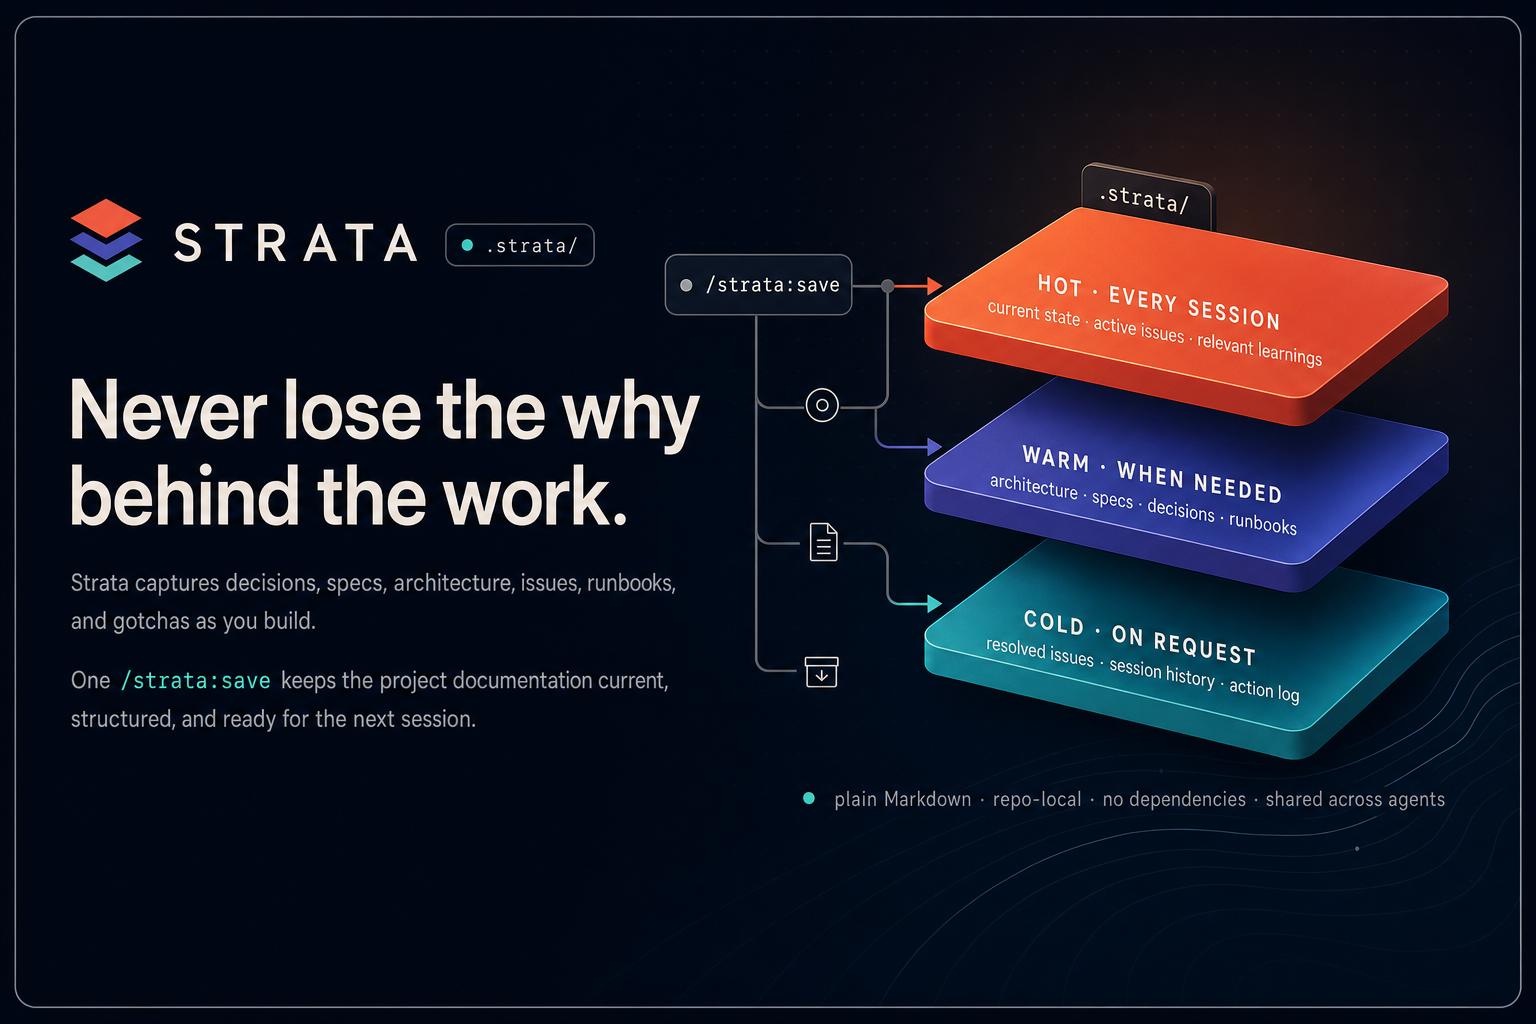
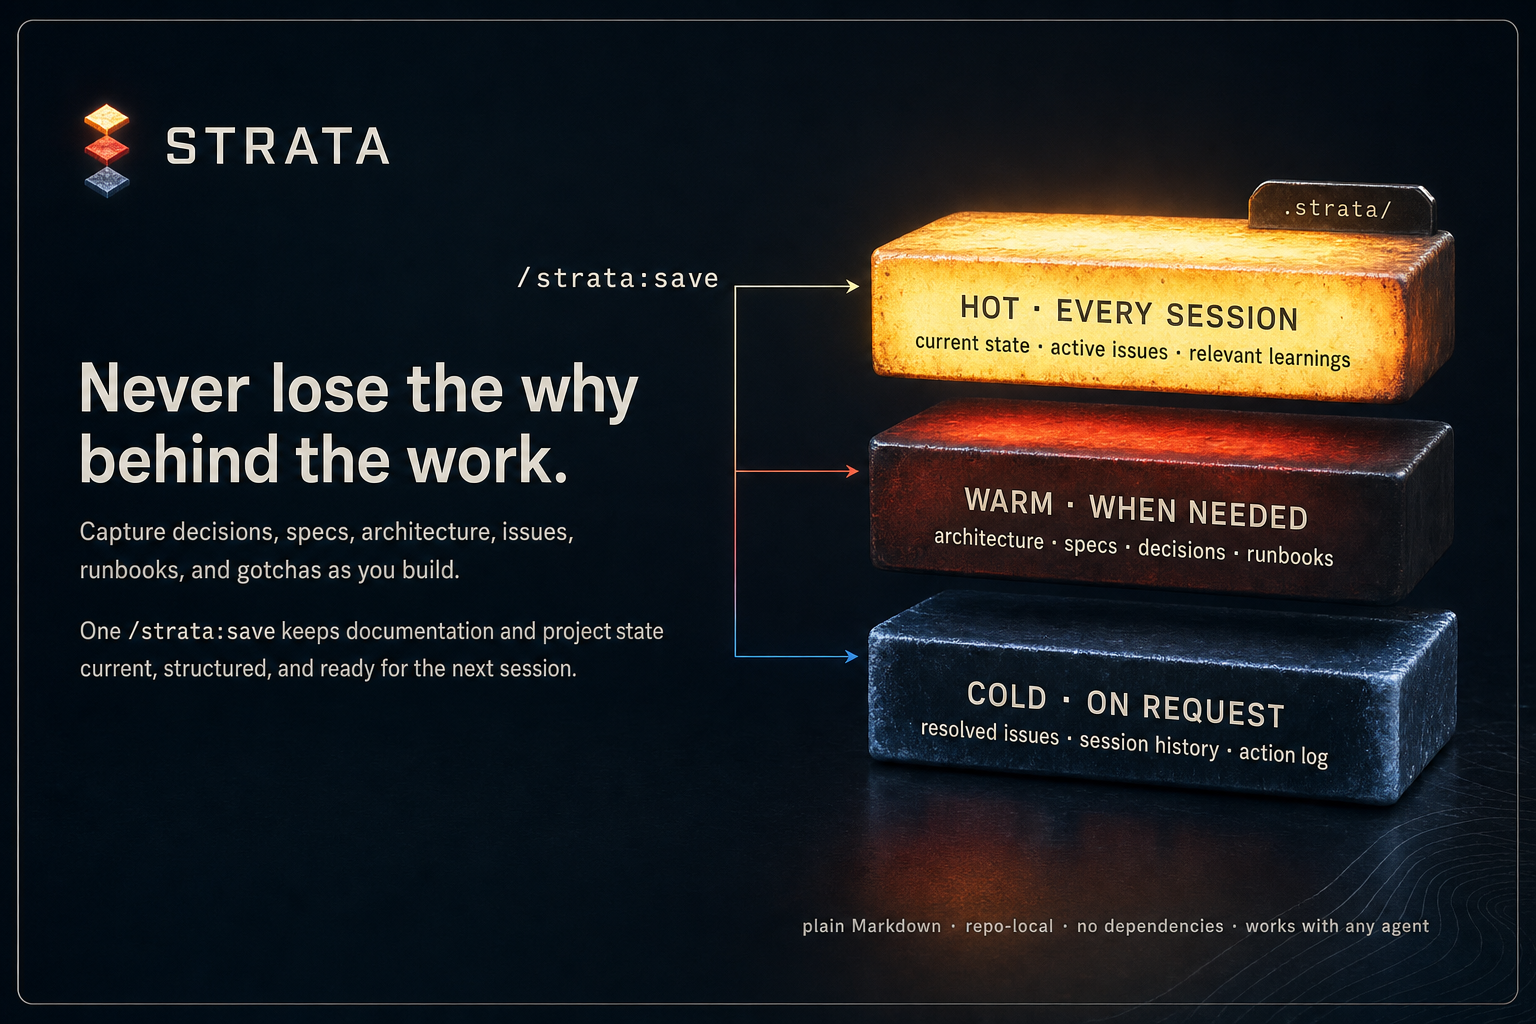
strata: sync catalog + vendored Codex package to 0.0.5
The Claude entry (.claude-plugin/marketplace.json) tracks github belousov-petr/strata;
bump its version label 0.0.4 -> 0.0.5 so the catalog shows the release and consumers
detect the refresh.

The Codex entry vendors a local package at plugins/strata (Codex resolves local paths
in this repo). Re-synced from strata 0.0.5: .codex-plugin/plugin.json 0.0.4 -> 0.0.5,
the broadened immediate-capture (SKILL §5/§2/§6, commands/capture.md, hook reminders),
the reframed README, and the new hero image.

diff --git a/plugins/strata/README.md b/plugins/strata/README.md
@@ -21,7 +21,7 @@ Strata is a plugin for Claude Code and Codex. It writes everything to plain Mark
 
 ## Why this exists
 
-When you build software, the documentation drifts away from the code. The decision you made last week, the spec you agreed on, the bug you found and the workaround you used, the way an outside system really behaves: most of it stays in your head or in the chat, and the written record falls behind. Weeks later you read your own docs and they describe a project that no longer exists.
+Spend more than a few days building with agents and the docs start drifting from the real work. It snowballs until you can no longer say what the project really is or how far along it is. The decision you made last week, the spec you agreed on, the bug you found and the workaround you used, the way an outside system really behaves: most of it stays in your head or in the chat, and the written record falls behind. Weeks later you read your own docs and they describe a project that no longer exists.
 
 Agents make this faster and sharper. They try things, hit errors, find fixes, and move on, all in minutes. They work out how a site paginates, why a queue stalls, what the real acceptance test is. Most of that never reaches the code or the docs. It lives in the session. Then the context window fills up, the session compacts, and it is gone. So you rediscover the same fix, re-explain the same decision, and re-learn how the same website works.
 
@@ -37,7 +37,7 @@ Git already stores your files and their history. Strata adds the layer git leave
 
 Three moves, and the middle one is the only thing you have to remember.
 
-- **Capture as you go.** The moment a finding, bug, decision, or gotcha appears, `/strata:capture` writes it to disk, mid-task, before compaction can lose it. You can also let the agent write it directly. An optional hook does part of it for you: when a command fails it writes the failure to disk on its own, then reminds the agent to turn it into a lesson.
+- **Capture as you go.** Whenever something worth keeping shows up, a decision and the reason for it, how an outside system really works, a change of direction, a gotcha, or a failed command, it lands in its right place the moment it is clear, before compaction can lose it. `/strata:capture` takes the findings and gotchas on demand, the agent and `/strata:save` file the heavier docs (decisions, specs, runbooks) where they belong, and the hook puts failures on disk on its own.
 - **Close with one command.** At the end of a session, `/strata:save` reads what happened, sorts each piece to its store, rebuilds the generated views and indexes, and shows a preview of every change first. Invoking `/strata:save` is the confirmation, so it writes right after the preview without a second prompt. This is the one thing to run before you stop, and nothing you learned is left behind.
 - **Start with orientation.** Next session, `/strata:load` reads the recent state shallow to deep, checks it against git, and gives a short summary of where things stand.
 
@@ -126,7 +126,7 @@ When you run `/strata:init` on a fresh project, strata creates this:
         └── CHANGELOG.md · roadmap.md   (when they exist)
 ```
 
-Everything strata owns lives under `.strata/`. Like a lockfile, the folder states its format and version (`strata_version: 0.0.3` in the manifest), so it stays out of the way of everything else and any tool can read it. The adapters are thin pointers. `AGENTS.md` still has room for your own build, test, and style notes.
+Everything strata owns lives under `.strata/`. Like a lockfile, the folder names its own format and version in the manifest, so any tool can read it and it stays in one place, clear of the rest of your repo. The adapters, `AGENTS.md` and `CLAUDE.md`, are thin pointers into it. `AGENTS.md` still has room for your own build, test, and style notes.
 
 ## The commands
 
@@ -167,24 +167,30 @@ It loads shallow to deep (`MANIFEST` → `MEMORY` → `ACTIVE` → state), check
 
 ### `/strata:capture`
 
-Use this during a session, while the work is fresh. Save is for the end. Reach for it when a command fails, when the agent retries with a workaround, when a brittle setup rule shows up, when you settle a decision, or when a finding is too useful to leave in the chat.
+Use this during a session, while the work is fresh. Save is for the end. Reach for it the moment something worth keeping appears: a workaround you do not want to rediscover, a rule about how an operation has to be done, a brittle setup step, a bug, or a finding too useful to leave in the chat. Getting it on disk while you have it is the whole point, so the project's record grows as you work instead of waiting on a write-up later.
 
-It writes or updates:
+It writes or updates the right file for what you captured:
 
-- an issue under `.strata/issues/` when there is work to close
-- a learning under `.strata/memory/learnings/` when the value is a reusable rule
-- both when a fixable problem also teaches a future lesson
+- an issue under `.strata/issues/` for work to close
+- a learning under `.strata/memory/learnings/` for a reusable rule
+- a decision record under `.strata/docs/decisions/` for something you settled and want explained later
+- a runbook or spec under `.strata/docs/` for how a system behaves or what a feature needs
+- more than one of these when a single moment is several at once
 
 It does not rebuild the generated views. `/strata:save` does that later, so `ACTIVE.md`, `OPEN.md`, `PARKED.md`, `learnings/INDEX.md`, and the `MEMORY.md` table stay in sync with the source files.
 
-`/strata:capture` only helps if you run it, and on a long session that is easy to forget. An optional hook (`hooks/`) handles the part you would otherwise have to remember. When a command fails, the hook writes the failure straight to a holding file, `.strata/inbox/captures.jsonl`, the instant it happens. No agent turn, nothing to remember. It runs the same check before a compaction, at the end of a session, and on Codex after each turn, scanning the transcript for failures it has not caught yet. The holding file is raw evidence, not finished memory: it is git-ignored scratch, and secrets are masked on the way in. Your next `/strata:capture` or `/strata:save` reads it, turns the real failures into issues or learnings, and clears it; `/strata:load` tells you how many are waiting.
+`/strata:capture` only helps if you run it, and on a long session that is easy to forget. The hook covers the one piece a machine can catch on its own: a failed command. In Claude Code it ships turned on, so most of the time you never think about it. When a command fails, it writes that failure to a holding file, `.strata/inbox/captures.jsonl`, the moment it happens, while you keep working.
+
+The hook writes at a few moments. The instant a command fails, it logs it. Before the context window compacts, it reads back through the recent transcript and saves any failures it has not logged yet, so the compaction cannot drop them. When a session ends without compacting, it runs that same scan one last time. On Codex it scans after every turn instead, the way Codex works. All of these passes share one cursor, so the same failure is never logged twice.
+
+Each line in the holding file is one failure: the command that failed and a short piece of its output. Git ignores the file, and the hook masks anything shaped like a secret before it writes. Your next `/strata:capture` or `/strata:save` reads those lines, turns the failures worth keeping into issues or learnings, and clears the file. `/strata:load` tells you how many are still waiting.
 
 One shared Node script ([`hooks/strata-capture-guard.mjs`](hooks/strata-capture-guard.mjs)) does all of this, on Claude Code and Codex, on Windows, macOS, and Linux. It says nothing outside a strata project, and if it errors it exits cleanly, so it cannot stall or block a session.
 
 - Claude Code: it ships in the plugin (`hooks/hooks.json`, picked up when the plugin is on). Nothing to set up. Turn it off with `/plugin disable strata`.
 - Codex: plugins cannot carry hooks, so copy [`hooks/codex-hooks.sample.json`](hooks/codex-hooks.sample.json) to `~/.codex/hooks.json` (every project on the machine) or to a committed `<project>/.codex/hooks.json` (travels with the repo). Set the `commandWindows` field on Windows.
 
-The honest limit: a hook can write the evidence, but it cannot reason. Turning a raw failure into a finished lesson is still the agent's job, at the next capture or save. So the evidence no longer waits on anyone remembering, but the distilling still does. More in [`hooks/README.md`](hooks/README.md).
+The honest limit: a hook reacts to mechanical signals, so the one moment it can catch by itself is a failed command. The richer moments worth saving, a decision and why you made it, how an outside system really works, a change of direction, the context behind a spec, are the agent's to write as they happen, and `/strata:save`'s to file under `docs/`. What the hook removes is the worst case: a finding lost to compaction because nobody wrote it down in time. The aim across all of it is that the project's documentation grows as you build, so less and less is left for you to keep up by hand. More in [`hooks/README.md`](hooks/README.md).
 
 ## Installation
 
@@ -263,6 +269,7 @@ That bare `strata` is why the skill keeps `name: strata`. It is the name Codex a
 - The save preview is a record of the plan. `/strata:save` writes right after it on its own, so a misclassified note can still move if the session read was wrong.
 - Where a note belongs is still a judgment call. The simple tests (rule versus procedure versus fact, issue versus learning) handle most cases. When in doubt, leave it hot and let the next save sort it.
 - The generated views are only as fresh as the last save. The items are the truth. The views are a copy with a rebuild step.
+- I wanted strata to run anywhere: Claude Code and Codex, on Windows, macOS, and Linux. The two agents fire hooks differently and install plugins differently, and every OS has its own quirks, so reaching all of them turned up one bug after another. It now works on Windows and Linux for both Claude Code and Codex. I do not own a Mac, so the macOS path is written but untested. If something breaks on your setup, open an issue or a PR and tell me what went wrong.
 
 ## What building this taught me
 

diff --git a/plugins/strata/skills/strata/SKILL.md b/plugins/strata/skills/strata/SKILL.md
@@ -40,7 +40,7 @@ One routing key per store: `project_state.md` = recency ("what was I doing"), `l
 | Finding, bug, improvement, debt, task, feature, initiative | `issues/<id>-<slug>.md`, status `open`, full rationale + diagnostics | **Immediately, mid-session** |
 | Deferred work | same file, status `parked` + `revive-when:` | at capture or triage |
 | Behavioral lesson (worked or burned you) | `memory/learnings/<slug>.md` | at `/strata:save`, `/strata:capture`, or immediately if hard-won |
-| Shipped decision with non-obvious rationale | `docs/decisions/ADR-NNNN-<slug>.md` + source → `memory/archive/source-adr-NNNN-*` | at `/strata:save` |
+| Shipped decision with non-obvious rationale | `docs/decisions/ADR-NNNN-<slug>.md` + source → `memory/archive/source-adr-NNNN-*` | **immediately when settled** (§5), or at `/strata:save` |
 | Product requirement / PRD | `docs/product/<slug>.md` | when it exists |
 | How a subsystem works | `docs/architecture/<slug>.md` + row in `docs/ARCHITECTURE.md` | when it stabilizes |
 | Stable fact (paths, schemas, APIs, conventions) | `docs/reference/<slug>.md` | on second lookup |
@@ -90,18 +90,20 @@ origin: success | failure
 
 ## 5. Immediate capture — before context decays
 
-Invoked via `Skill(name='strata', args='capture')`, `/strata:capture`, or any moment a failure/gotcha/finding appears mid-task. Spend tokens now; a compacted-away diagnosis is more expensive than a small file write.
+Invoked via `Skill(name='strata', args='capture')`, `/strata:capture`, or any moment something worth keeping appears mid-task. Write every important moment to its home the instant it is clear, so the docs grow as you build instead of waiting on session end. Spend tokens now; a compacted-away diagnosis or rationale is more expensive than a small file write.
 
-**Trigger:** failed command/tool/API; retry loop; workaround; surprising repo behavior; brittle environment step; bug/finding; doc drift; or a rule future agents should know before repeating an operation.
+**Trigger:** a failed command/tool/API, retry loop, or workaround; surprising repo behavior or a brittle environment step; a bug, finding, or doc drift; a rule future agents should know before an operation; **a decision you settled** (with the rationale and the options you rejected); **a change of direction** that overturns a prior decision or spec; **how an outside system actually works**; or **a requirement, or the reasoning behind it**, worth a spec or PRD.
 
-**Route:**
+**Route** (write the home for what you captured; `/strata:save` is the safety net that files anything you miss):
 
 - Closeable work -> `issues/<id>-<slug>.md` from `_TEMPLATE.md`, with `status: open` or `in-progress`, severity/area, What/Why, Tried/Error/Hypothesis/Repro, evidence, and next action.
 - Reusable behavior -> `memory/learnings/<slug>.md`, with operation-keyed `trigger:`, optional `applies-when:`, `origin: success | failure`, and a 1-3 sentence lesson.
-- Both when needed: issue for the fixable work, learning for the reusable pitfall or counterfactual rule.
+- Settled decision with non-obvious rationale -> `docs/decisions/ADR-NNNN-<slug>.md` (NNNN = highest existing + 1, the §6 collision scan), status `proposed`/`accepted`, with the considered options. A change of direction supersedes the old ADR per `docs/decisions/README.md` — new ADR, old one marked superseded, never an in-place rewrite.
+- Durable knowledge -> the warm docs: a runbook or how-a-system-works under `docs/ops/` or `docs/architecture/`; a requirement or its reasoning under `docs/product/`.
+- Several at once when one moment is more than one of these: e.g. a fixable bug (issue) that also taught a rule (learning).
 - Flat mode -> append a concise "Fresh capture" entry to `.strata/memory/project_state.md` under Findings/Gotchas/Open Items.
 
-**Write discipline:** targeted grep first to avoid duplicates; fold new evidence into an existing issue/learning when it matches. Keep evidence concise; no raw transcript dumps, full logs, or secret values. Do not hand-edit generated views during capture; `/strata:save` regenerates them from source files.
+**Write discipline:** targeted grep first to avoid duplicates; fold new evidence into an existing file when it matches. Keep evidence concise; no raw transcript dumps, full logs, or secret values. Capture writes the source file only — do not regenerate the views or the `ARCHITECTURE.md` index; `/strata:save` does that and finalizes anything left as a draft.
 
 **Report and resume:** say which file(s) were written or updated, then continue the original task unless the capture reveals a blocker.
 
@@ -126,7 +128,7 @@ memory.** The inbox is git-ignored transient scratch.
 
 ## 6. `/strata:save` — preview-execute contract
 
-**A — Scan** the session into buckets: resumption point · issue events (new captures — verify the mid-session ones hit disk; status changes; resolutions) · learnings (both origins) · ADR candidates · durable-doc impact · external completions · rollover (state beyond current + last completed) — also promote any un-promoted `.strata/inbox/` stubs (§5a) and clear the inbox.
+**A — Scan** the session into buckets: resumption point · issue events (new captures — verify the mid-session ones hit disk; status changes; resolutions) · learnings (both origins) · ADR candidates (file any not already written mid-session) · durable-doc impact · external completions · rollover (state beyond current + last completed) — also promote any un-promoted `.strata/inbox/` stubs (§5a) and clear the inbox.
 
 **B — Preview**: ONE block listing every proposed change under `NEW FILES / APPENDS / UPDATES / MOVES / DELETIONS (section-only) / REGENERATED / SKIP`, then continue automatically. The preview is an audit record, not a confirmation gate. Empty plan → "no changes proposed", stop.
 

diff --git a/plugins/strata/commands/capture.md b/plugins/strata/commands/capture.md
@@ -11,10 +11,15 @@ Write the memory now, then continue. Prefer spending a few tokens on the spot ov
 
 ## When to use
 
+Capture any important moment the instant it is clear, so the project's docs grow as you build:
+
 - A command, tool, API, install, test, or deploy step failed and you retried or changed approach
 - You found a bug, weakness, TODO, brittle assumption, config drift, or doc gap
 - You learned a rule future agents should know before doing the same operation
 - You used a workaround that should not be rediscovered later
+- You settled a decision worth explaining later, or changed direction on an earlier one
+- You worked out how an outside system actually behaves (runbook material)
+- You pinned down a requirement, or the reasoning behind it, that belongs in a spec or PRD
 
 ## Process
 
@@ -39,12 +44,16 @@ Do not bulk-read `learnings/`, `archive/`, ADRs, or every issue.
 
 ### 3. Route the capture
 
+Write to the home for what you captured (full table in `Skill: strata:strata` §2/§5). `/strata:save` is the safety net that files anything you miss.
+
 - **Issue** if there is closeable work: bug, improvement, debt, task, feature, initiative.
 - **Learning** if the value is a reusable behavior rule: "before doing X, know Y."
-- **Both** if a fixable issue also taught a future rule.
+- **Decision record** under `docs/decisions/ADR-NNNN-<slug>.md` if you settled something with non-obvious rationale (number = highest existing + 1); a change of direction supersedes the old ADR, never edits it.
+- **Durable doc** if it is lasting knowledge: a runbook or how-a-system-works under `docs/ops/` or `docs/architecture/`, a requirement or its reasoning under `docs/product/`.
+- **Several** if one moment is more than one of these.
 - **Flat mode** if no 0.0.3 structure exists: append under Findings/Gotchas/Open Items in `project_state.md`.
 
-Dedup before writing. If a matching issue or learning exists, update it with the new evidence instead of creating a near-duplicate.
+Dedup before writing. If a matching file exists, update it with the new evidence instead of creating a near-duplicate. Capture writes the source file only; `/strata:save` regenerates the views and the `ARCHITECTURE.md` index.
 
 ### 4. Write immediately
 
@@ -57,6 +66,8 @@ For an issue, use `.strata/issues/_TEMPLATE.md` and include:
 - Next action or acceptance criteria
 
 For a learning, use `.strata/memory/learnings/_TEMPLATE.md` and keep the lesson to 1-3 sentences with `origin: success | failure`.
+
+For a decision, write an ADR (Context / Considered Options / Decision / Consequences) under `.strata/docs/decisions/`; for a runbook, spec, or PRD, write the durable doc under the matching `.strata/docs/` folder. See `Skill: strata:strata` §5 for the routing.
 
 Do not hand-edit generated views (`ACTIVE.md`, `OPEN.md`, `PARKED.md`, `learnings/INDEX.md`, or the `MEMORY.md` trigger table). `/strata:save` regenerates them from source files.
 
